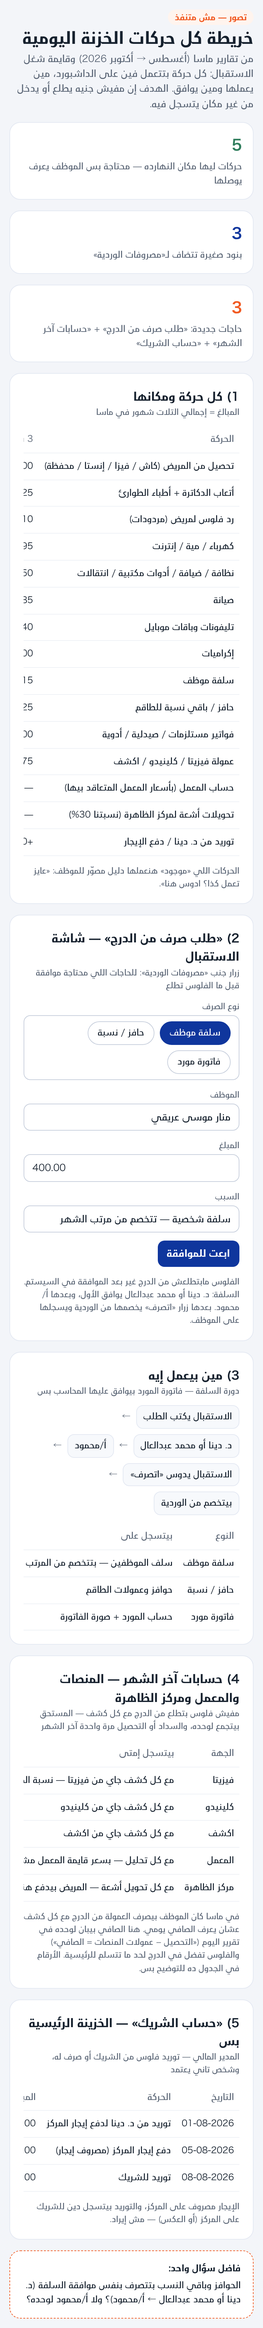
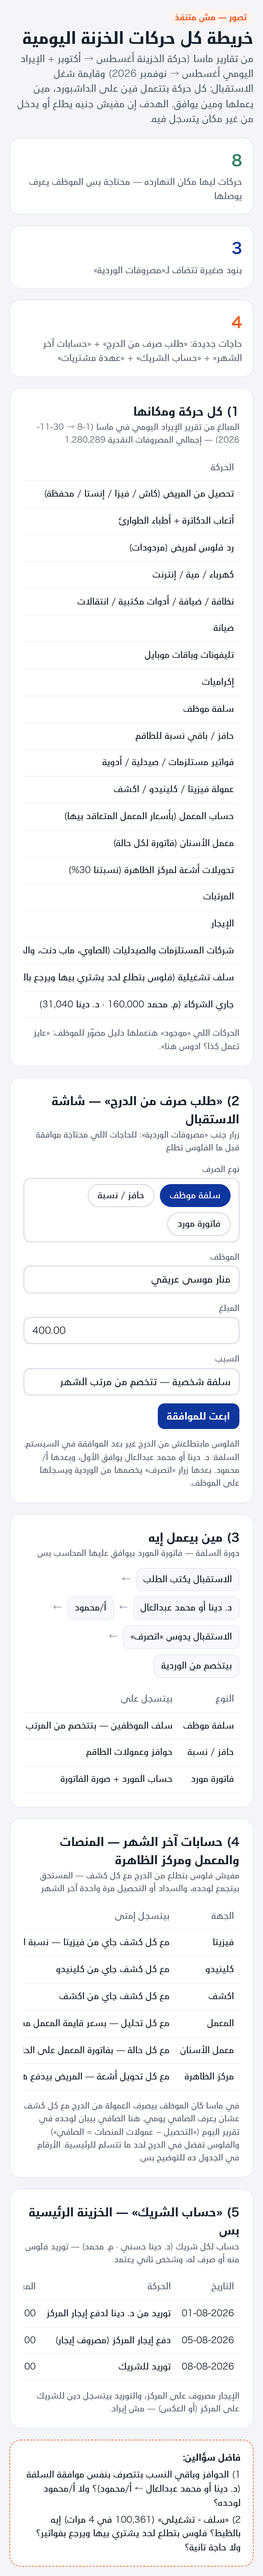
Mockup: add salaries, rent, suppliers, purchase custody, partners and dental lab from Masa daily revenue report
Claude-Session: https://claude.ai/code/session_01UqVZHWa751JciR5NzZebwW

diff --git a/docs/ui-references/mockups/daily-movements-map.html b/docs/ui-references/mockups/daily-movements-map.html
@@ -30,32 +30,37 @@ table{width:100%;border-collapse:collapse;font-size:13px}th,td{text-align:right;
 @media (max-width:760px){.wrap{padding:14px}.grid,.kpis{grid-template-columns:1fr}table{display:block;overflow-x:auto}th,td{white-space:nowrap}}
 </style></head><body><div class="wrap">
 <div><span class="tag">تصور — مش متنفذ</span><h1>خريطة كل حركات الخزنة اليومية</h1>
-<p class="sub">من تقارير ماسا (أغسطس → أكتوبر 2026) وقايمة شغل الاستقبال: كل حركة بتتعمل فين على الداشبورد، مين يعملها ومين يوافق. الهدف إن مفيش جنيه يطلع أو يدخل من غير مكان يتسجل فيه.</p></div>
+<p class="sub">من تقارير ماسا (حركة الخزينة أغسطس → أكتوبر + الإيراد اليومي أغسطس → نوفمبر 2026) وقايمة شغل الاستقبال: كل حركة بتتعمل فين على الداشبورد، مين يعملها ومين يوافق. الهدف إن مفيش جنيه يطلع أو يدخل من غير مكان يتسجل فيه.</p></div>
 
 <div class="kpis">
- <div class="kpi ok"><b>5</b><span>حركات ليها مكان النهارده — محتاجة بس الموظف يعرف يوصلها</span></div>
+ <div class="kpi ok"><b>8</b><span>حركات ليها مكان النهارده — محتاجة بس الموظف يعرف يوصلها</span></div>
  <div class="kpi small"><b>3</b><span>بنود صغيرة تتضاف لـ«مصروفات الوردية»</span></div>
- <div class="kpi new"><b>3</b><span>حاجات جديدة: «طلب صرف من الدرج» + «حسابات آخر الشهر» + «حساب الشريك»</span></div>
+ <div class="kpi new"><b>4</b><span>حاجات جديدة: «طلب صرف من الدرج» + «حسابات آخر الشهر» + «حساب الشريك» + «عهدة مشتريات»</span></div>
 </div>
 
 <section class="card">
- <h2>1) كل حركة ومكانها<small>المبالغ = إجمالي التلات شهور في ماسا</small></h2>
- <table><thead><tr><th>الحركة</th><th>3 شهور</th><th>مين يعملها</th><th>من فين</th><th>مين يوافق</th><th>الحالة</th></tr></thead><tbody>
-  <tr><td>تحصيل من المريض (كاش / فيزا / إنستا / محفظة)</td><td class="num">≈ 2,440,000</td><td>الاستقبال</td><td>التحصيل ← «أنهي محفظة؟»</td><td>—</td><td><span class="st ok">موجود</span></td></tr>
-  <tr><td>أتعاب الدكاترة + أطباء الطوارئ</td><td class="num">118,725</td><td>الاستقبال</td><td>مكتب صرف الأتعاب — كل دكتور باسمه</td><td>المحاسب</td><td><span class="st ok">موجود</span></td></tr>
-  <tr><td>رد فلوس لمريض (مردودات)</td><td class="num">3,710</td><td>الاستقبال</td><td>طلبات الاستقبال ← «استرداد»</td><td>المحاسب</td><td><span class="st ok">موجود</span></td></tr>
-  <tr><td>كهرباء / مية / إنترنت</td><td class="num">26,195</td><td>الاستقبال</td><td>مصروفات الوردية</td><td>المحاسب يراجع الإيصال</td><td><span class="st ok">موجود</span></td></tr>
-  <tr><td>نظافة / ضيافة / أدوات مكتبية / انتقالات</td><td class="num">11,850</td><td>الاستقبال</td><td>مصروفات الوردية</td><td>المحاسب يراجع الإيصال</td><td><span class="st ok">موجود</span></td></tr>
-  <tr><td>صيانة</td><td class="num">5,885</td><td>الاستقبال</td><td>مصروفات الوردية ← بند جديد «صيانة»</td><td>المحاسب يراجع الإيصال</td><td><span class="st small">بند يتضاف</span></td></tr>
-  <tr><td>تليفونات وباقات موبايل</td><td class="num">1,040</td><td>الاستقبال</td><td>مصروفات الوردية ← بند «تليفونات وباقات»</td><td>المحاسب يراجع الإيصال</td><td><span class="st small">بند يتضاف</span></td></tr>
-  <tr><td>إكراميات</td><td class="num">1,900</td><td>الاستقبال</td><td>مصروفات الوردية ← بند «إكراميات» (من غير إيصال، بسبب مكتوب)</td><td>المحاسب يراجع</td><td><span class="st small">بند يتضاف</span></td></tr>
-  <tr><td>سلفة موظف</td><td class="num">11,915</td><td>الاستقبال</td><td>«طلب صرف من الدرج» ← سلفة</td><td>د. دينا أو محمد عبدالعال ← بعدها أ/محمود</td><td><span class="st new">جديد</span></td></tr>
-  <tr><td>حافز / باقي نسبة للطاقم</td><td class="num">4,325</td><td>الاستقبال</td><td>«طلب صرف من الدرج» ← حافز</td><td>نفس موافقة السلفة (مستني تأكيدك)</td><td><span class="st new">جديد</span></td></tr>
-  <tr><td>فواتير مستلزمات / صيدلية / أدوية</td><td class="num">1,500</td><td>الاستقبال</td><td>«طلب صرف من الدرج» ← فاتورة مورد</td><td>المحاسب قبل الصرف</td><td><span class="st new">جديد</span></td></tr>
-  <tr><td>عمولة فيزيتا / كلينيدو / اكشف</td><td class="num">17,375</td><td>أوتوماتيك + المدير المالي</td><td>بتتسجل لوحدها مع كل كشف ← تتسدد آخر الشهر من الخزينة الرئيسية</td><td>شخص تاني يعتمد السداد</td><td><span class="st new">جديد</span></td></tr>
-  <tr><td>حساب المعمل (بأسعار المعمل المتعاقد بيها)</td><td class="num">—</td><td>أوتوماتيك + المدير المالي</td><td>تكلفة كل تحليل من قايمة المعمل ← كشف آخر الشهر ← سداد من الرئيسية</td><td>شخص تاني يعتمد السداد</td><td><span class="st new">جديد</span></td></tr>
+ <h2>1) كل حركة ومكانها<small>المبالغ من تقرير الإيراد اليومي في ماسا (1-8 → 30-11-2026) — إجمالي المصروفات النقدية 1,280,289</small></h2>
+ <table><thead><tr><th>الحركة</th><th>4 شهور</th><th>مين يعملها</th><th>من فين</th><th>مين يوافق</th><th>الحالة</th></tr></thead><tbody>
+  <tr><td>تحصيل من المريض (كاش / فيزا / إنستا / محفظة)</td><td class="num">1,425,366</td><td>الاستقبال</td><td>التحصيل ← «أنهي محفظة؟»</td><td>—</td><td><span class="st ok">موجود</span></td></tr>
+  <tr><td>أتعاب الدكاترة + أطباء الطوارئ</td><td class="num">434,382</td><td>الاستقبال</td><td>مكتب صرف الأتعاب — كل دكتور باسمه</td><td>المحاسب</td><td><span class="st ok">موجود</span></td></tr>
+  <tr><td>رد فلوس لمريض (مردودات)</td><td class="num">6,960</td><td>الاستقبال</td><td>طلبات الاستقبال ← «استرداد»</td><td>المحاسب</td><td><span class="st ok">موجود</span></td></tr>
+  <tr><td>كهرباء / مية / إنترنت</td><td class="num">29,545</td><td>الاستقبال</td><td>مصروفات الوردية</td><td>المحاسب يراجع الإيصال</td><td><span class="st ok">موجود</span></td></tr>
+  <tr><td>نظافة / ضيافة / أدوات مكتبية / انتقالات</td><td class="num">21,875</td><td>الاستقبال</td><td>مصروفات الوردية</td><td>المحاسب يراجع الإيصال</td><td><span class="st ok">موجود</span></td></tr>
+  <tr><td>صيانة</td><td class="num">17,635</td><td>الاستقبال</td><td>مصروفات الوردية ← بند جديد «صيانة»</td><td>المحاسب يراجع الإيصال</td><td><span class="st small">بند يتضاف</span></td></tr>
+  <tr><td>تليفونات وباقات موبايل</td><td class="num">1,475</td><td>الاستقبال</td><td>مصروفات الوردية ← بند «تليفونات وباقات»</td><td>المحاسب يراجع الإيصال</td><td><span class="st small">بند يتضاف</span></td></tr>
+  <tr><td>إكراميات</td><td class="num">2,400</td><td>الاستقبال</td><td>مصروفات الوردية ← بند «إكراميات» (من غير إيصال، بسبب مكتوب)</td><td>المحاسب يراجع</td><td><span class="st small">بند يتضاف</span></td></tr>
+  <tr><td>سلفة موظف</td><td class="num">42,530</td><td>الاستقبال</td><td>«طلب صرف من الدرج» ← سلفة</td><td>د. دينا أو محمد عبدالعال ← بعدها أ/محمود</td><td><span class="st new">جديد</span></td></tr>
+  <tr><td>حافز / باقي نسبة للطاقم</td><td class="num">11,500</td><td>الاستقبال</td><td>«طلب صرف من الدرج» ← حافز</td><td>نفس موافقة السلفة (مستني تأكيدك)</td><td><span class="st new">جديد</span></td></tr>
+  <tr><td>فواتير مستلزمات / صيدلية / أدوية</td><td class="num">15,675</td><td>الاستقبال</td><td>«طلب صرف من الدرج» ← فاتورة مورد</td><td>المحاسب قبل الصرف</td><td><span class="st new">جديد</span></td></tr>
+  <tr><td>عمولة فيزيتا / كلينيدو / اكشف</td><td class="num">39,770</td><td>أوتوماتيك + المدير المالي</td><td>بتتسجل لوحدها مع كل كشف ← تتسدد آخر الشهر من الخزينة الرئيسية</td><td>شخص تاني يعتمد السداد</td><td><span class="st new">جديد</span></td></tr>
+  <tr><td>حساب المعمل (بأسعار المعمل المتعاقد بيها)</td><td class="num">14,995</td><td>أوتوماتيك + المدير المالي</td><td>تكلفة كل تحليل من قايمة المعمل ← كشف آخر الشهر ← سداد من الرئيسية</td><td>شخص تاني يعتمد السداد</td><td><span class="st new">جديد</span></td></tr>
+  <tr><td>معمل الأسنان (فاتورة لكل حالة)</td><td class="num">8,000</td><td>أوتوماتيك + المدير المالي</td><td>تتسجل على الحالة ← كشف آخر الشهر ← سداد من الرئيسية</td><td>شخص تاني يعتمد السداد</td><td><span class="st new">جديد</span></td></tr>
   <tr><td>تحويلات أشعة لمركز الظاهرة (نسبتنا 30%)</td><td class="num">—</td><td>الاستقبال يسجل التحويل</td><td>«تحويل لمركز الظاهرة» ← كشف مطابقة آخر الشهر ← تحصيل نسبتنا</td><td>المحاسب يطابق ويستلم</td><td><span class="st new">جديد</span></td></tr>
-  <tr><td>توريد من د. دينا / دفع الإيجار</td><td class="num">27,500+</td><td>المدير المالي</td><td>الخزينة الرئيسية ← «حساب الشريك»</td><td>شخص تاني</td><td><span class="st new">جديد</span></td></tr>
+  <tr><td>المرتبات</td><td class="num">184,875</td><td>المحاسب / المدير المالي</td><td>المرتبات ← صرف من الخزينة الرئيسية</td><td>شخص تاني</td><td><span class="st ok">موجود</span></td></tr>
+  <tr><td>الإيجار</td><td class="num">82,500</td><td>المدير المالي</td><td>المصروفات العمومية ← «إيجار» من الخزينة الرئيسية</td><td>شخص تاني</td><td><span class="st ok">موجود</span></td></tr>
+  <tr><td>شركات المستلزمات والصيدليات (الصاوي، ماب دنت، والي، غزالي…)</td><td class="num">73,521</td><td>المحاسب</td><td>الموردين ← فاتورة ← سداد من الرئيسية</td><td>شخص تاني</td><td><span class="st ok">موجود</span></td></tr>
+  <tr><td>سلف تشغيلية (فلوس بتطلع لحد يشتري بيها ويرجع بالفواتير)</td><td class="num">100,361</td><td>المدير المالي</td><td>الخزينة الرئيسية ← «عهدة مشتريات» ← تتقفل بالفواتير والباقي</td><td>شخص تاني</td><td><span class="st new">جديد</span></td></tr>
+  <tr><td>جاري الشركاء (م. محمد 160,000 · د. دينا 31,040)</td><td class="num">191,040</td><td>المدير المالي</td><td>الخزينة الرئيسية ← «حساب الشريك»</td><td>شخص تاني</td><td><span class="st new">جديد</span></td></tr>
  </tbody></table>
  <p class="note">الحركات اللي «موجود» هنعملها دليل مصوّر للموظف: «عايز تعمل كذا؟ ادوس هنا».</p>
 </section>
@@ -88,13 +93,14 @@ table{width:100%;border-collapse:collapse;font-size:13px}th,td{text-align:right;
   <tr><td>كلينيدو</td><td>مع كل كشف جاي من كلينيدو</td><td class="num">علينا 1,800.00</td><td class="num">12</td><td><span class="st small">كشف ← سداد من الرئيسية</span></td></tr>
   <tr><td>اكشف</td><td>مع كل كشف جاي من اكشف</td><td class="num">علينا 300.00</td><td class="num">2</td><td><span class="st small">كشف ← سداد من الرئيسية</span></td></tr>
   <tr><td>المعمل</td><td>مع كل تحليل — بسعر قايمة المعمل مش سعرنا للجمهور</td><td class="num">علينا 4,120.00</td><td class="num">38</td><td><span class="st small">نراجع الكشف مع المعمل ← سداد</span></td></tr>
+  <tr><td>معمل الأسنان</td><td>مع كل حالة — بفاتورة المعمل على الحالة والدكتور</td><td class="num">علينا 2,700.00</td><td class="num">2</td><td><span class="st small">كشف ← سداد من الرئيسية</span></td></tr>
   <tr><td>مركز الظاهرة</td><td>مع كل تحويل أشعة — المريض بيدفع هناك</td><td class="num">لينا 30% = 1,350.00</td><td class="num">9</td><td><span class="st small">نطابق الحالات ← نستلم نسبتنا</span></td></tr>
  </tbody></table>
  <p class="note">في ماسا كان الموظف بيصرف العمولة من الدرج مع كل كشف عشان يعرف الصافي يومي. هنا الصافي بيبان لوحده في تقرير اليوم («التحصيل − عمولات المنصات = الصافي») والفلوس تفضل في الدرج لحد ما تتسلم للرئيسية. الأرقام في الجدول ده للتوضيح بس.</p>
 </section>
 
 <section class="card">
- <h2>5) «حساب الشريك» — الخزينة الرئيسية بس<small>المدير المالي — توريد فلوس من الشريك أو صرف له، وشخص تاني يعتمد</small></h2>
+ <h2>5) «حساب الشريك» — الخزينة الرئيسية بس<small>حساب لكل شريك (د. دينا حسني · م. محمد) — توريد فلوس منه أو صرف له، وشخص تاني يعتمد</small></h2>
  <table><thead><tr><th>التاريخ</th><th>الحركة</th><th>المبلغ</th><th>رصيد الشريك</th></tr></thead><tbody>
   <tr><td class="num">01-08-2026</td><td>توريد من د. دينا لدفع إيجار المركز</td><td class="num">27,000.00</td><td class="num">27,000.00</td></tr>
   <tr><td class="num">05-08-2026</td><td>دفع إيجار المركز (مصروف إيجار)</td><td class="num">27,500.00</td><td class="num">27,000.00</td></tr>
@@ -103,5 +109,5 @@ table{width:100%;border-collapse:collapse;font-size:13px}th,td{text-align:right;
  <p class="note">الإيجار مصروف على المركز، والتوريد بيتسجل دين للشريك على المركز (أو العكس) — مش إيراد.</p>
 </section>
 
-<div class="q"><b>فاضل سؤال واحد:</b><span>الحوافز وباقي النسب بتتصرف بنفس موافقة السلفة (د. دينا أو محمد عبدالعال ← أ/محمود)؟ ولا أ/محمود لوحده؟</span></div>
+<div class="q"><b>فاضل سؤالين:</b><span>1) الحوافز وباقي النسب بتتصرف بنفس موافقة السلفة (د. دينا أو محمد عبدالعال ← أ/محمود)؟ ولا أ/محمود لوحده؟</span><span>2) «سلف - تشغيلى» (100,361 في 4 مرات) إيه بالظبط؟ فلوس بتطلع لحد يشتري بيها ويرجع بفواتير؟ ولا حاجة تانية؟</span></div>
 </div></body></html>
